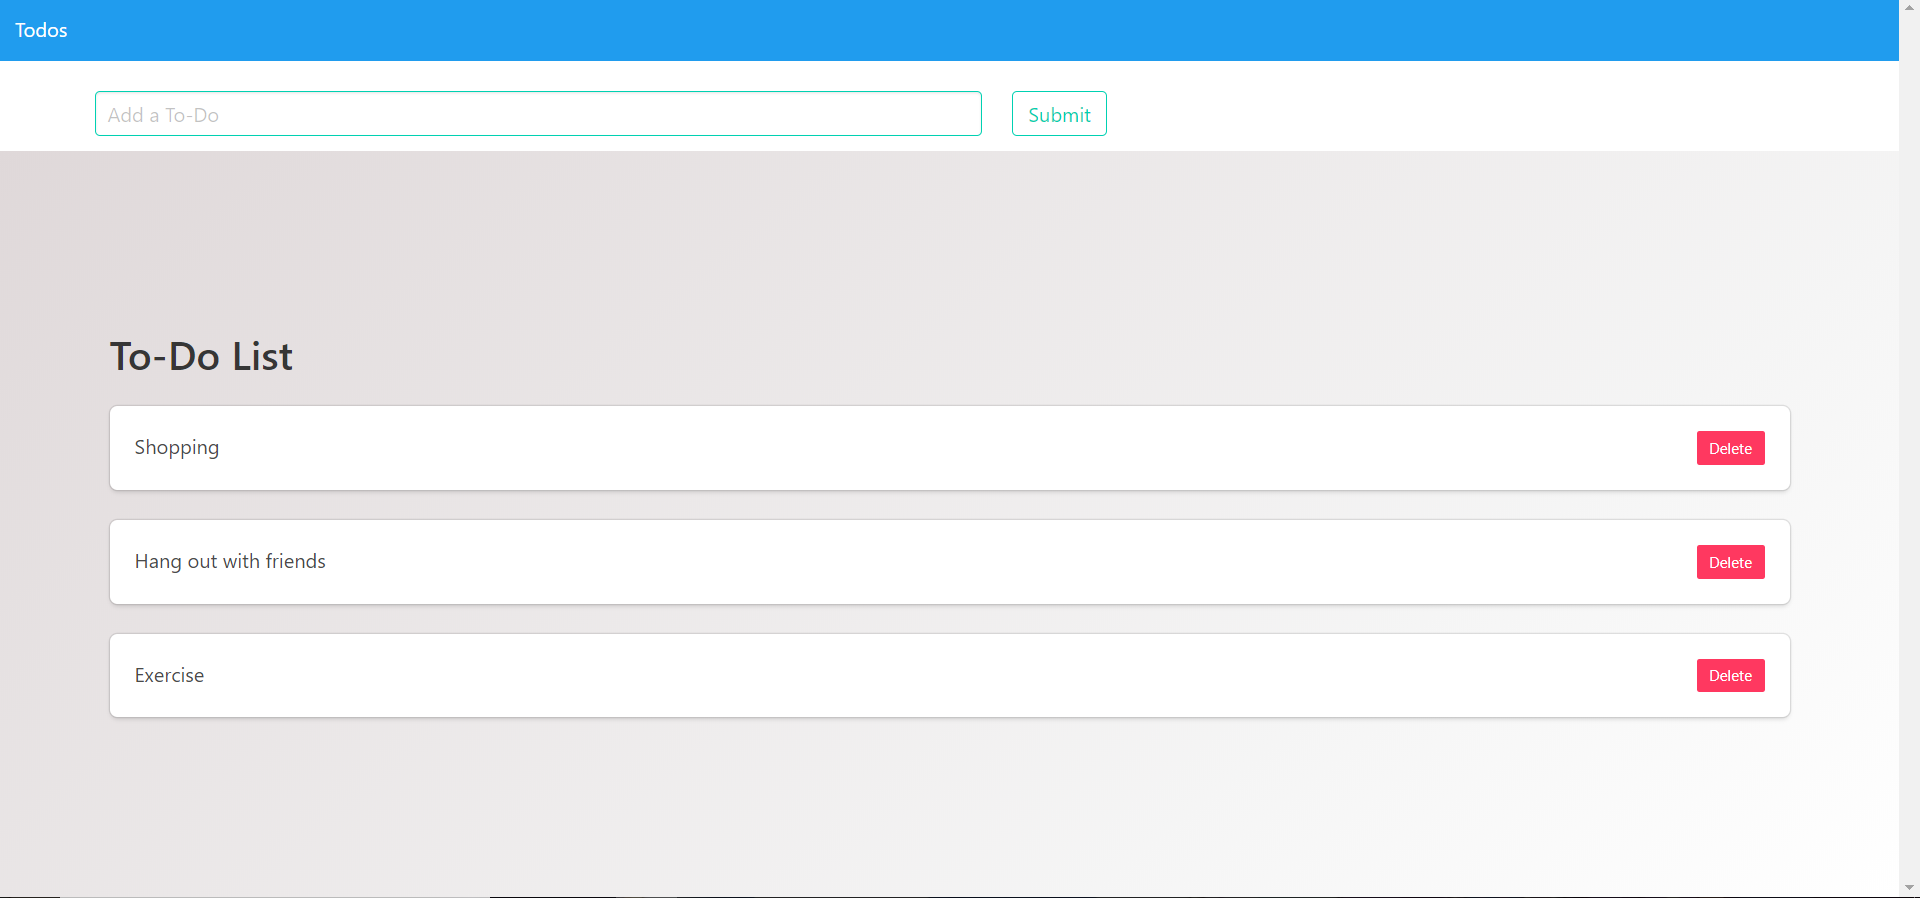
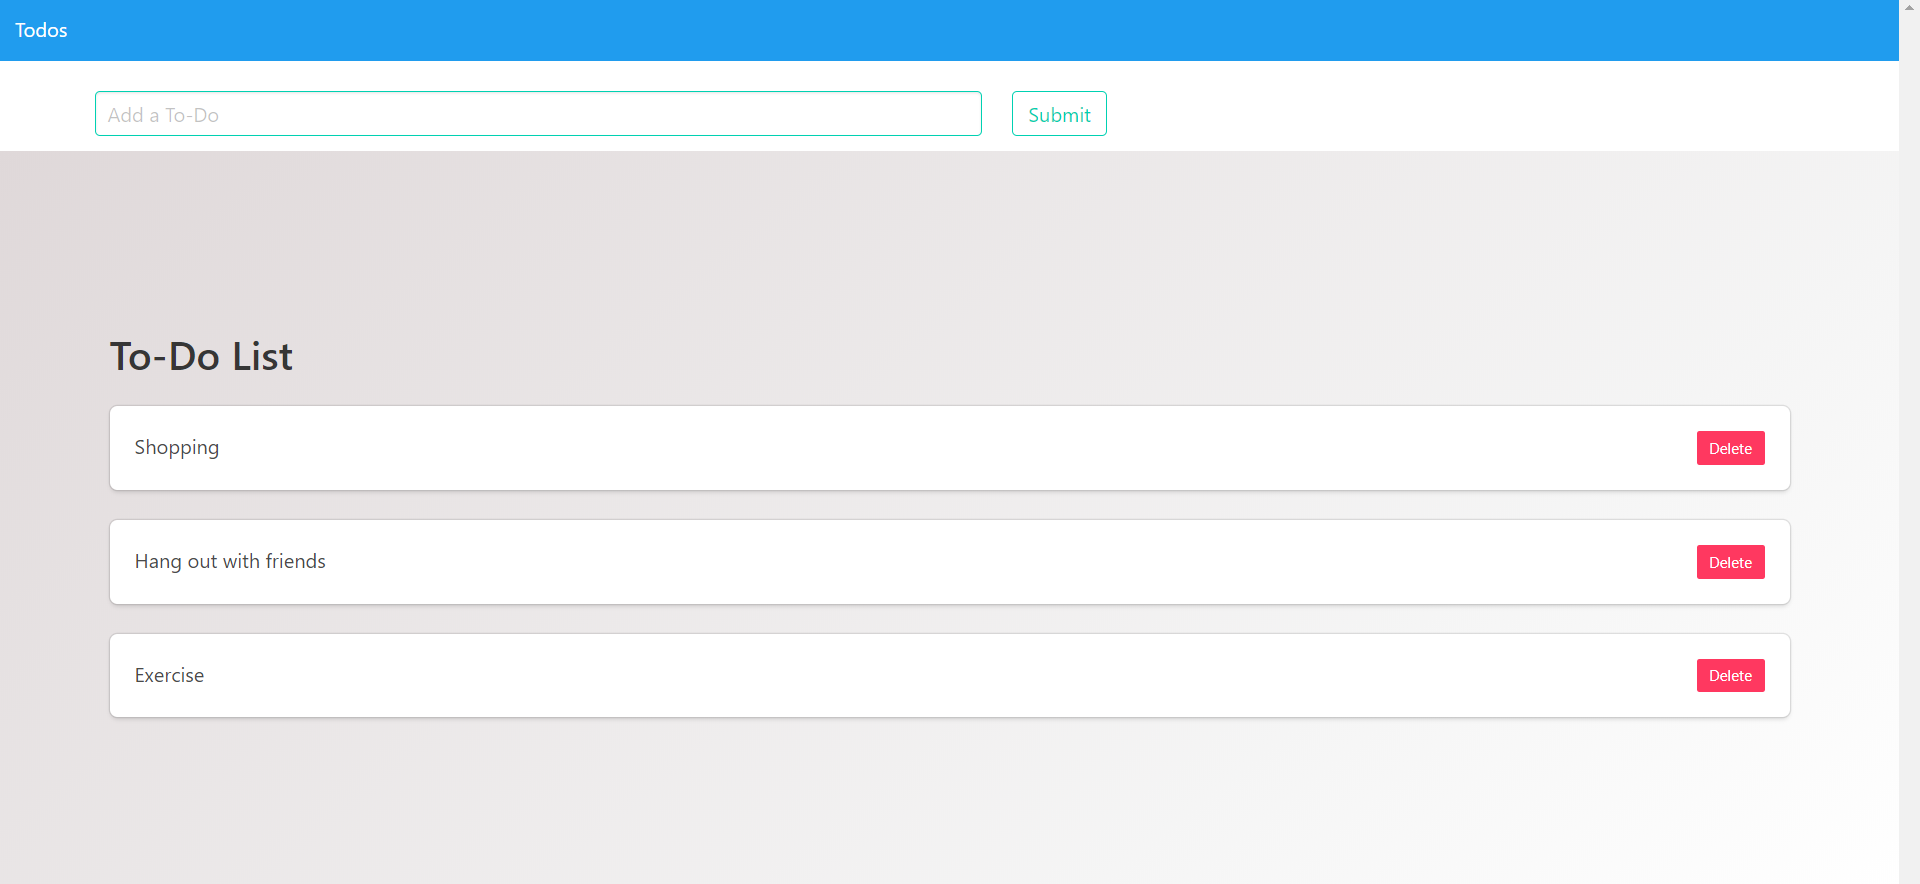
Made the image cropped better and added more info in the readme.md

diff --git a/README.md b/README.md
@@ -1,1 +1,5 @@
 # Shopping-List
+
+![image](./assets/images/to-do.png)
+
+This is a very simple To-Do list that allows users to create To-Do items. Users can delete the items when clicking the delete button. This was created with HTML, Bulma.css for the CSS framework, Jquery, and Firebase's database to handle realtime modifications. That way users won't have to reinput their to-dos everytime they open the app.
